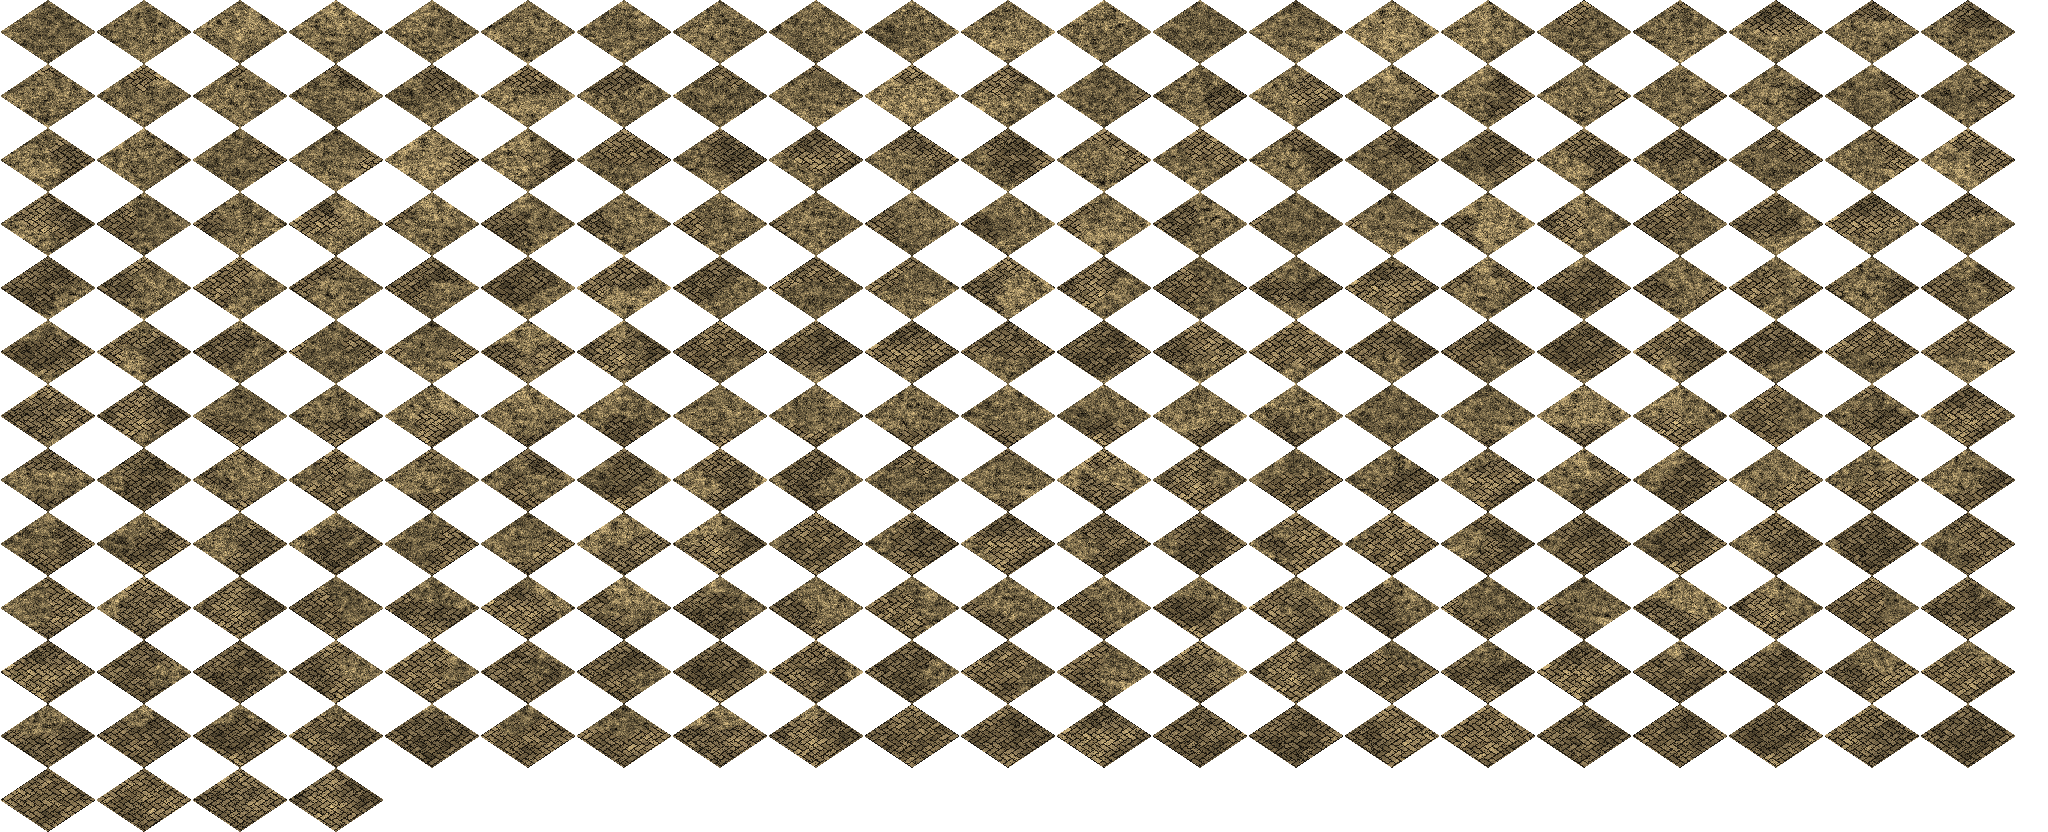
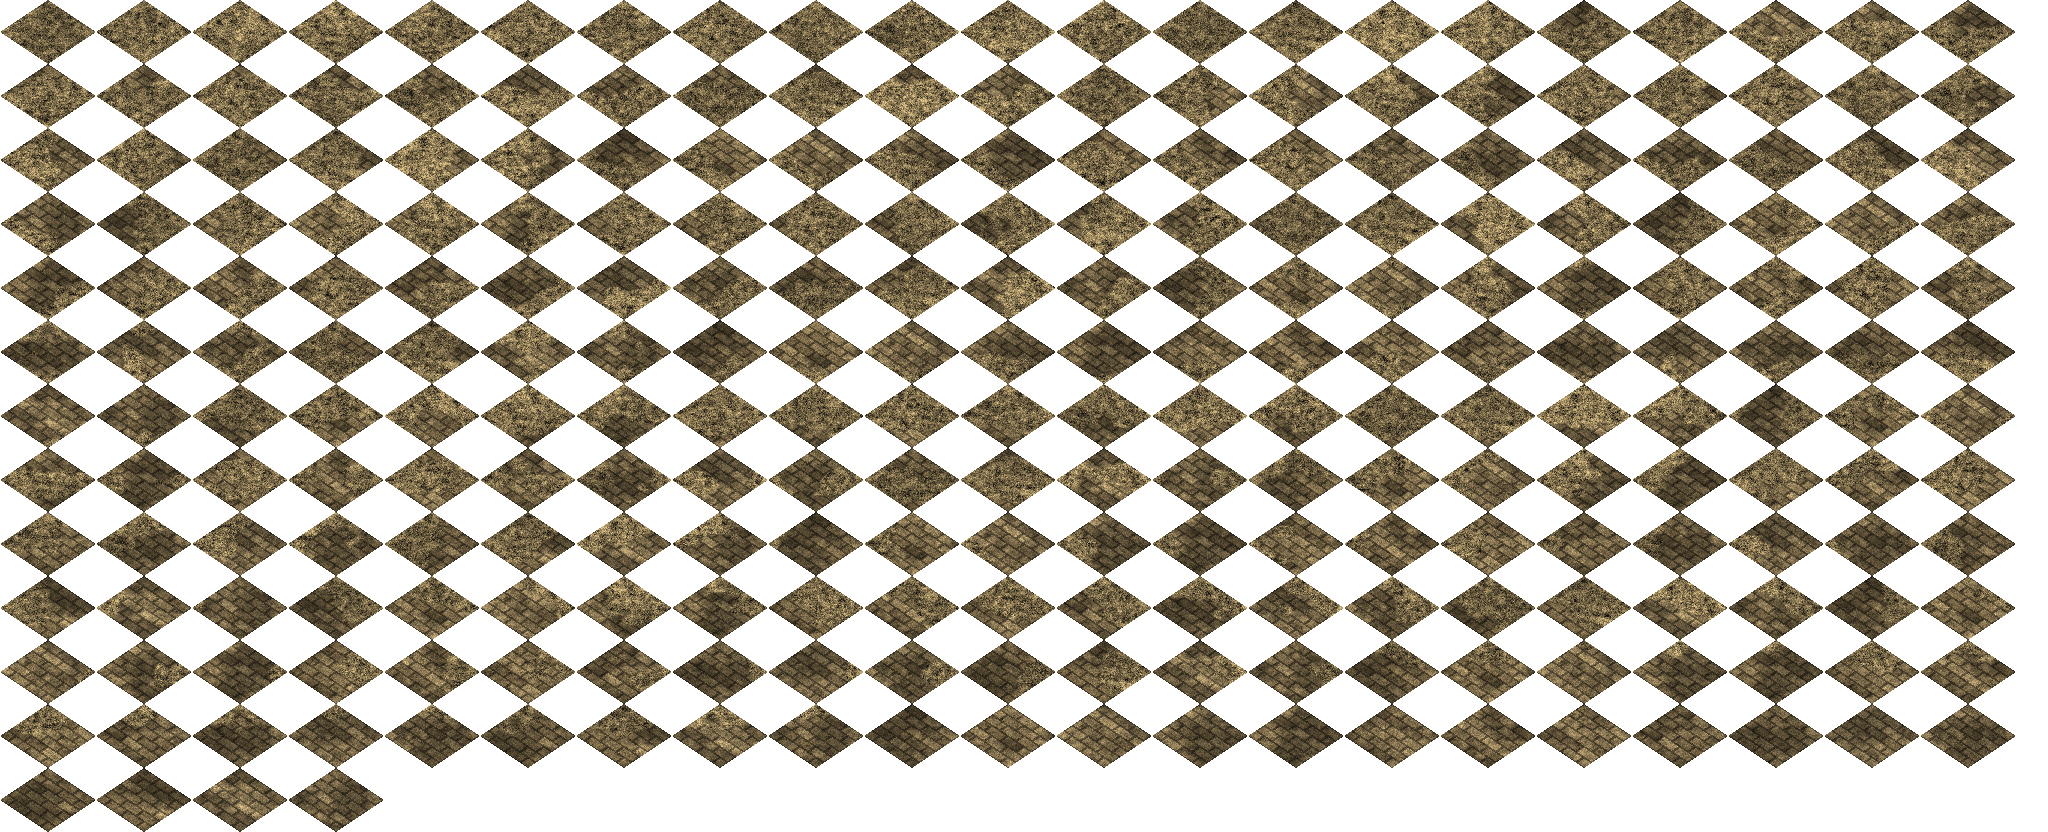
Dungeon floor: bigger bricks in staggered rows under smudges of grime
The first area's dungeon floor was a fine herringbone with hard black
joints and pits. It is now laid like the original's: bricks about twice
the size in rows along one wall, with thin soft joints, some darker
bricks and broad stains of dirt. The fort and castle paving is unchanged.

Claude-Session: https://claude.ai/code/session_01UcMoCU5phFRDaz2VddJRC8

diff --git a/tools/art/ground.py b/tools/art/ground.py
@@ -178,10 +178,16 @@ class Floor(Ground):
     def __init__(self, seed=1, kind="dungeon"):
         super().__init__(seed)
         self.palette = [np.array(c, dtype=float) for c in self.KINDS[kind]]
+        self.kind = kind
         self.pitting = 0.07
         if kind == "fort":
             self.pitting = 0.12  # more pitted paving stones
+        else:
+            # The dungeon's bricks are bigger and laid in staggered rows
+            # (see bond()), with thin soft joints and no pits.
+            self.pitting = -1.0
         self.wear = Field([(0.5, 1.0), (0.15, 0.7)], seed + 5)  # dust and damp
+        self.grime = Field([(0.4, 1.0), (0.15, 0.8), (0.05, 0.4)], seed + 8)  # smudges of dirt
 
     def bricks(self, u, v):
         """Brick shade (-1 to 1) and a 0-1 mortar mask, laid in herringbone:
@@ -196,21 +202,44 @@ class Floor(Ground):
         bj = np.where(flat, j, j - (t - 2))
         h = (bi * 73856093 ^ bj * 19349663 ^ flat.astype(int) * 83492791) & 0xFFFF
         shade = h / 0x7FFF - 1
-        m = 0.09
+        m = 0.09 if self.kind == "fort" else 0.07
         mortar = np.where(flat, (fy < m) | (fy > 1 - m) | ((t == 0) & (fx < m)) | ((t == 1) & (fx > 1 - m)),
                           (fx < m) | (fx > 1 - m) | ((t == 2) & (fy < m)) | ((t == 3) & (fy > 1 - m)))
+        return shade, mortar.astype(float)
+
+    def bond(self, u, v, length=1 / 3, width=1 / 6):
+        """Brick shade (-1 to 1) and a 0-1 mortar mask for bricks laid in
+        rows along x, each row shifted half a brick. Bricks are `length` by
+        `width` tiles, each a whole number to the period."""
+        x, y = np.asarray(u) / length, np.asarray(v) / width
+        j = np.floor(y).astype(int)
+        x = x + 0.5 * (j % 2)
+        i = np.floor(x).astype(int)
+        fx, fy = x - i, y - j
+        h = (i * 73856093 ^ j * 19349663) & 0xFFFF
+        shade = h / 0x7FFF - 1
+        mx, my = 0.06, 0.1
+        mortar = (fx < mx) | (fx > 1 - mx) | (fy < my) | (fy > 1 - my)
         return shade, mortar.astype(float)
 
     def texture(self, u, v):
         big = self.big(u, v)
         wear = self.wear(u, v)
         fine = 0.85 * self.rng.standard_normal(np.shape(u)) + 0.5 * self.fine(u, v)
-        shade, mortar = self.bricks(u, v)
+        shade, mortar = self.bricks(u, v) if self.kind == "fort" else self.bond(u, v)
         mid, dark, light, joint_colour, rubble_colour = self.palette
-        brick = colour(mid, dark, light, 0.45 * shade + 0.15 * big, fine, 0.12)
-        # Dust lightens some stretches and damp darkens others.
-        brick = brick * (1 + np.clip(0.18 * wear, -0.08, 0.25))[..., None]
-        joint = joint_colour * (1 + 0.2 * fine[..., None])
+        if self.kind == "fort":
+            brick = colour(mid, dark, light, 0.45 * shade + 0.15 * big, fine, 0.12)
+            # Dust lightens some stretches and damp darkens others.
+            brick = brick * (1 + np.clip(0.18 * wear, -0.08, 0.25))[..., None]
+            joint = joint_colour * (1 + 0.2 * fine[..., None])
+        else:
+            # Flat, evenly worn bricks under broad smudges of grime: dark
+            # damp stains and paler dusty patches running across the joints.
+            grime = self.grime(u, v)
+            brick = colour(mid, dark, light, 0.55 * shade * np.abs(shade) + 0.1 * big, fine, 0.16)
+            brick = brick * (1 + np.clip(0.2 * grime, -0.2, 0.18))[..., None]
+            joint = brick * 0.6
         floor = brick * (1 - mortar[..., None]) + joint * mortar[..., None]
         # Pits and chips: scattered near-black specks, thicker where it is damp.
         pits = self.rng.random(np.shape(u)) < self.pitting + 0.05 * np.clip(-wear, 0, 1)
